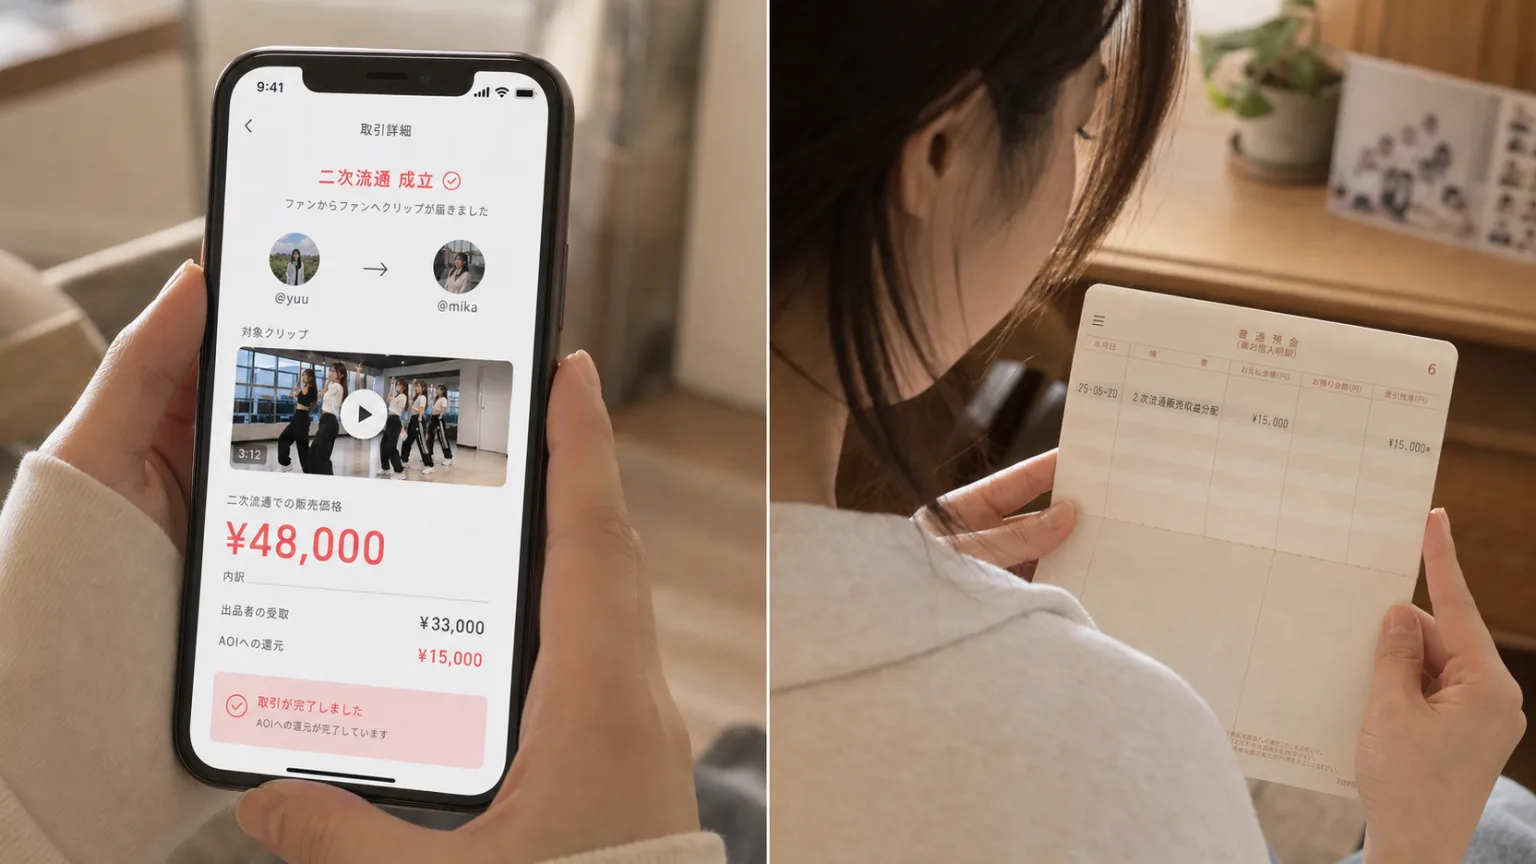
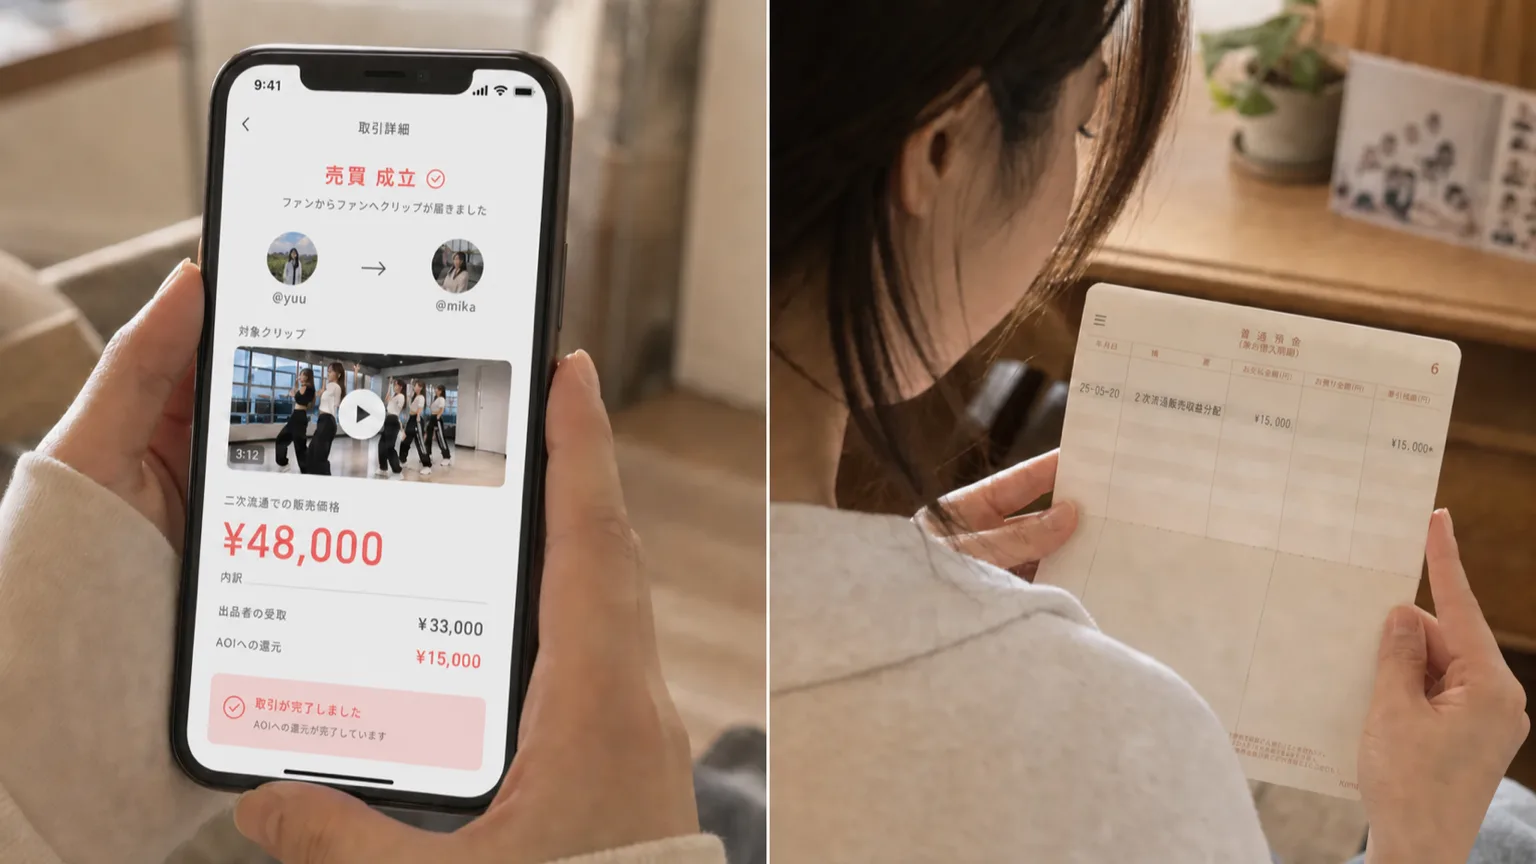
売れる理由を再構成しメリットセクション統合、利用フローStep2/3統合とStep1画像差し替え
- 売れる理由: リード文削除、理由2に「新しいタイプのグッズでマンネリ打破」・理由3に「ファンの外へ認知拡大」を追記、理由5「ブレイク後、下積み映像がバズって新規ファン獲得」を新設
- 出品者のメリットセクションを削除し要点を売れる理由へ統合（.merit3 CSS整理）
- 利用フローStep2にStep3(購入・非公開化・一点物)をマージし全5ステップに再採番
- Step1画像をスタジオ三脚撮影の実写(flow_capture.webp)に差し替え
- Step5画像の見出しを「二次流通 成立」→「売買 成立」に修正

diff --git a/index.html b/index.html
@@ -225,7 +225,7 @@
 
     <li class="afterflow__stage">
       <div class="afterflow__visual">
-        <img src="img/flow_ai.webp" alt="アップロードした練習動画をAIが見どころごとに切り分けて値付けした画面を確認する手元" width="1448" height="1086" loading="lazy">
+        <img src="img/flow_capture.webp" alt="ダンススタジオで、三脚に立てたスマホでグループの練習を定点撮影している様子" width="1400" height="788" loading="lazy">
       </div>
       <p class="afterflow__num">Step 1</p>
       <h4 class="afterflow__heading">撮って、アップするだけ</h4>
@@ -248,24 +248,15 @@
         </figure>
       </div>
       <p class="afterflow__num">Step 2</p>
-      <h4 class="afterflow__heading">3つの入り口から、買い手が流入する</h4>
-      <p class="afterflow__desc">物販机のQR、アプリ内フィードの回遊、SNSの拡散。既存ファンも、まだあなたを知らない人も、ここから入ってきます。</p>
-    </li>
-
-    <li class="afterflow__stage">
-      <div class="afterflow__visual">
-        <img src="img/purchase.webp" alt="ライブ会場でLapsellの購入画面を開き、リハーサル映像を¥1,200で購入しようとしているファン" width="1672" height="941" loading="lazy">
-      </div>
-      <p class="afterflow__num">Step 3</p>
-      <h4 class="afterflow__heading">その場で、購入される</h4>
-      <p class="afterflow__desc">ワンタップで購入。購入された瞬間にクリップは非公開化され、買った人だけの「一点物」になります。</p>
+      <h4 class="afterflow__heading">3つの入り口から入って、購入される</h4>
+      <p class="afterflow__desc">物販机のQR、アプリ内フィードの回遊、SNSの拡散。既存ファンも、まだあなたを知らない人も、ここから入ってワンタップで購入します。購入された瞬間にクリップは非公開化され、買った人だけの「一点物」になります。</p>
     </li>
 
     <li class="afterflow__stage">
       <div class="afterflow__visual">
         <img src="img/fan_tv.webp" alt="テレビで推しのライブを見ながら、手元のスマホで下積み時代のクリップを見返すファン" width="1536" height="1024" loading="lazy">
       </div>
-      <p class="afterflow__num">Step 4</p>
+      <p class="afterflow__num">Step 3</p>
       <h4 class="afterflow__heading">ブレイク後、動画の価値が上がる</h4>
       <p class="afterflow__desc">あなたが有名になるほど、「誰も見たことのない下積み時代」を映したクリップの価値は上がっていきます。</p>
     </li>
@@ -274,7 +265,7 @@
       <div class="afterflow__visual">
         <img src="img/sns_post.webp" alt="購入した駆け出し時代のクリップを添えて「この頃から見ていた」とポストを書くファン" width="1448" height="1086" loading="lazy">
       </div>
-      <p class="afterflow__num">Step 5</p>
+      <p class="afterflow__num">Step 4</p>
       <h4 class="afterflow__heading">「私はこの頃から見ていた」が、SNSでバズる</h4>
       <p class="afterflow__desc">ファンは手元のクリップを添えて「この頃からずっと推していた」とポストします。誰も持っていない駆け出し時代の映像が、あなたの名前をさらに広げます。</p>
     </li>
@@ -283,7 +274,7 @@
       <div class="afterflow__visual">
         <img src="img/flow_resale.webp" alt="左：クリップがファン@yuuからファン@mikaへ二次流通で転売され、販売価格¥48,000のうちAOIへの還元¥15,000が表示されたアプリの取引詳細画面。右：通帳の「２次流通販売収益分配 ¥15,000」を肩越しに確認する20代の女性クリエイター" width="1536" height="864" loading="lazy">
       </div>
-      <p class="afterflow__num">Step 6</p>
+      <p class="afterflow__num">Step 5</p>
       <h4 class="afterflow__heading">市場で転売され、あなたに還元される</h4>
       <p class="afterflow__desc">価値の上がったクリップは、新規ファン・投機層・メディア・コレクターへ二次流通します。転売が成立するたび、<strong>売却益の一部があなたに還元</strong>されます。</p>
     </li>
@@ -291,50 +282,11 @@
   </ol>
 </section>
 
-<!-- 出品者のメリット -->
-<section class="section section--tint" id="merit">
-  <div class="section__inner">
-    <p class="section__label">Benefits</p>
-    <h2 class="section__title">出品者のメリット</h2>
-    <p class="section__lead">
-      クリップが売れはじめると、収益のほかに3つのメリットが生まれます。
-    </p>
-
-    <div class="merit3">
-      <figure class="merit3__item">
-        <img src="img/merit_goods.webp" alt="定番のツアーグッズの中央に、一点物のリハーサルクリップが表示されたスマホが並ぶ" width="1254" height="1254" loading="lazy">
-        <figcaption>
-          <h3>グッズのマンネリを打破</h3>
-          <p>アクスタ・缶バッジに並ぶ新しい売り物として、「一点物のクリップ」が物販に加わります。</p>
-        </figcaption>
-      </figure>
-      <figure class="merit3__item">
-        <img src="img/merit_reach.webp" alt="カフェで若者たちがスマホを囲み、知らないアーティストの練習クリップに見入っている" width="1448" height="1086" loading="lazy">
-        <figcaption>
-          <h3>ファンの外へ、認知が広がる</h3>
-          <p>フィードの回遊とSNSの拡散で、まだファンでない人があなたに出会います。</p>
-        </figcaption>
-      </figure>
-      <figure class="merit3__item">
-        <img src="img/merit_close.webp" alt="ライブ終演後、ファンとアーティストが笑顔で握手を交わしている" width="1448" height="1086" loading="lazy">
-        <figcaption>
-          <h3>ファンとの距離が縮まる</h3>
-          <p>作り込んだ姿ではなく素の試行錯誤を共有することで、ファンとの関係が深くなります。</p>
-        </figcaption>
-      </figure>
-    </div>
-  </div>
-</section>
-
 <!-- 売れる理由 -->
 <section class="section" id="reason">
   <div class="section__inner">
     <p class="section__label">Why it sells</p>
     <h2 class="section__title">本当に売れるの？</h2>
-    <p class="section__lead">
-      「無名の自分の練習動画に、お金を払う人が本当にいるのか」。<br>
-      一番気になるのはそこだと思います。理由は4つあります。
-    </p>
 
     <div class="reason">
 
@@ -376,7 +328,7 @@
             アクリルスタンド、缶バッジ、ランダムトレカ。既存のグッズは、隣のファンと同じ量産品です。
           </p>
           <p>
-            世界に一つのクリップは、<span class="marker">「私だけのもの」を求めるファンの、代わりのない選択肢</span>になります。
+            世界に一つのクリップは、<span class="marker">「私だけのもの」を求めるファンの、代わりのない選択肢</span>になります。アクスタや缶バッジに並ぶ<strong>全く新しいタイプのグッズ</strong>として、マンネリ化した物販に新しい売り物が加わります。
           </p>
         </div>
         <figure class="reason__photo">
@@ -391,7 +343,7 @@
             買うのは、いまのファンだけではありません。フィードには「次にブレイクする才能を、誰より早く見つけたい」というユーザーが回遊しています。下積み時代のクリップは安く手に入り、ブレイクすれば価値が跳ね上がるからです。
           </p>
           <p>
-            だから、<span class="marker">下積み時代のクリップこそ、発掘の対象</span>になります。
+            だから、<span class="marker">下積み時代のクリップこそ、発掘の対象</span>になります。こうしたユーザーの回遊やSNSの拡散を通じて、<strong>まだファンでない人にもクリップが届き、ファンの外まで認知が広がります</strong>。
           </p>
         </div>
         <figure class="reason__photo">
@@ -411,6 +363,21 @@
         </div>
         <figure class="reason__photo">
           <img src="img/map_cells.webp" alt="ラプセルマップ。クリエイターの拠点の周りのセルが初期支援者に取得されている" width="1586" height="992" loading="lazy">
+        </figure>
+      </div>
+
+      <div class="reason__item">
+        <div class="reason__text">
+          <h3 class="reason__heading">5. ブレイク後、下積み映像がバズって新規ファンを呼ぶ</h3>
+          <p>
+            あなたがブレイクした後、誰も見たことのない下積み時代の練習映像は希少価値が跳ね上がります。ファンが「この頃から見てた」と手元のクリップを添えて投稿することで、SNSで一気に拡散していきます。
+          </p>
+          <p>
+            <span class="marker">下積み時代の映像はバズりやすく、まだあなたを知らない層にも届いて新規ファンの獲得</span>につながります。
+          </p>
+        </div>
+        <figure class="reason__photo">
+          <img src="img/merit_reach.webp" alt="カフェで若者たちがスマホを囲み、まだ知らないアーティストの練習クリップに見入っている" width="1448" height="1086" loading="lazy">
         </figure>
       </div>
 

diff --git a/style.css b/style.css
@@ -500,27 +500,6 @@ strong { font-weight: 700; }
   text-align: center;
 }
 
-/* ===== 出品者のメリット ===== */
-.merit3 {
-  display: grid;
-  grid-template-columns: repeat(3, 1fr);
-  gap: 48px;
-}
-.merit3__item img {
-  width: 100%;
-  aspect-ratio: 4 / 3;
-  object-fit: cover;
-  border-radius: 8px;
-}
-.merit3__item figcaption h3 {
-  font-size: 19px;
-  margin: 18px 0 8px;
-}
-.merit3__item figcaption p {
-  font-size: 14.5px;
-  color: var(--text-weak);
-}
-
 /* ===== 料金 ===== */
 .price {
   display: grid;
@@ -716,14 +695,12 @@ strong { font-weight: 700; }
 
   .problem__grid,
   .reason__item,
-  .merit3,
   .price {
     grid-template-columns: 1fr;
   }
 
   /* 1カラム化した画像は16:9・最大300pxに抑え、縦のスクロール量を減らす */
   .problem__item img,
-  .merit3__item img,
   .reason__photo img {
     width: 100%;
     max-width: 300px;
@@ -777,10 +754,6 @@ strong { font-weight: 700; }
 
   .price { gap: 40px; }
   .price__amount { font-size: 34px; }
-
-  .merit3 { gap: 32px; }
-  .merit3__item figcaption h3 { font-size: 17px; margin-top: 12px; }
-  .merit3__item figcaption p { font-size: 14px; }
 
   .faq__item { padding: 20px 0; }
   .faq__item summary { font-size: 15px; }
